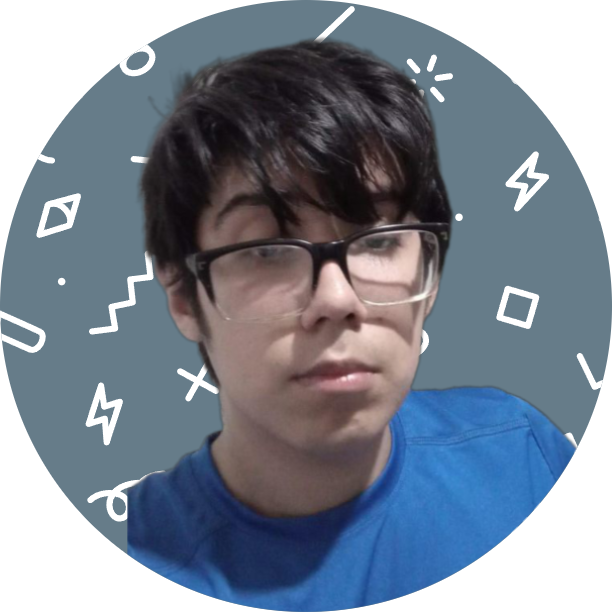
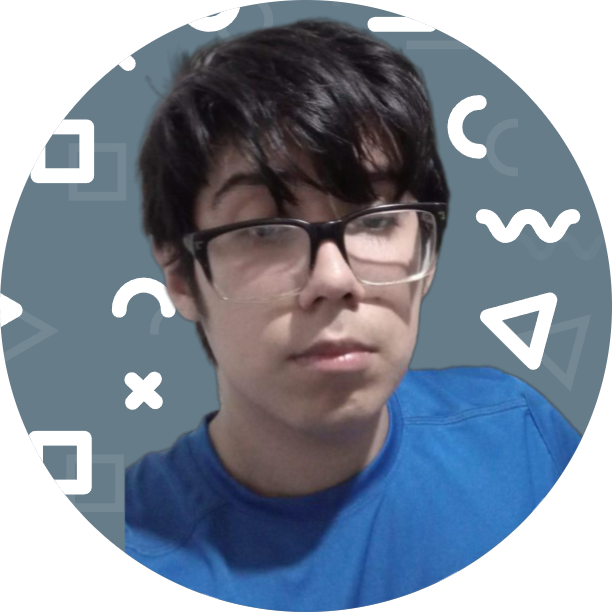
Elimine el style del h1 ya que no estaba en uso, cambie nombres de class porque interferian con otras y reemplaze 2 fotos que tenian el fondo distinto. Terminado

diff --git a/pages/nosotros.html b/pages/nosotros.html
@@ -248,8 +248,8 @@
       
     </header>
     <main class="nosotros">
-      <section class="container">
-          <article class="row" id="bannerQuienesSomos">
+      <section class="conteiner">
+          <article class="roow" id="bannerQuienesSomos">
             <hr>
               <p class="h1 text-center text-bg-dark d-flex justify-content-center ">
                 "El grupo "PixelGame" se organizó desde primer momento para realizar las tareas de forma conjunta y ordenadas
@@ -267,56 +267,37 @@
                   <img src="../img/Marcelo.png" class="quienesSomos borderojoquienessomos" alt="Marcelo Leiva" />
                   <div class="card-body">
                       <p class="h3 text-center nombreequipo text-bg-dark">Marcelo G. Leiva</p>
-                      <p class="card-text text-center text-bg-dark">
-                      Estudiante de Ingenieria en Sistemas de Informacion
-                      </p>
                   </div>
               </aside>
               <aside class="col-xl-4 col-sm-6 py-1">
                   <img src="../img/Rosario.png" class="quienesSomos borderojoquienessomos" alt="Rosario Blac Sleiman" />
                   <div class="card-body">
                       <p class="h3 text-center nombreequipo text-bg-dark">Rosario Blac Sleiman</p>
-                      <p class="card-text text-center text-bg-dark">
-                          Descripcion de ella
-                      </p>
                   </div>
               </aside>
               <aside class="col-xl-4 col-sm-6 pb-1 p">
                   <img src="../img/Ivan.png" class="card-img-top quienesSomos borderojoquienessomos" alt="Walter Duarte " />
                   <div class="card-body">
                       <p class="h3 text-center nombreequipo text-bg-dark">Walter Ivan Duarte</p>
-                      <p class="card-tex text-center text-bg-dark">
-                          Descripcion de el
-                      </p>
                   </div>
               </aside>
               <aside class="col-xl-4 col-sm-6">
-                  <img src="../img/Cristian (2).png" class="card-img-top quienesSomos borderojoquienessomos"
+                  <img src="../img/Cristian.png" class="card-img-top quienesSomos borderojoquienessomos"
                       alt="Cristian Quiroga" />
                   <div class="card-body">
                       <p class="h3 text-center nombreequipo text-bg-dark">Cristian Quiroga</p>
-                      <p class="card-text text-center text-bg-dark">
-                          Descripcion de el
-                      </p>
-                      
                   </div>
               </aside>
               <aside class="col-xl-4 col-sm-6 py-1">
                 <img src="../img/Tomas.png" class="quienesSomos borderojoquienessomos" alt="Tomas Quispe" />
                 <div class="card-body">
                     <p class="h3 text-center nombreequipo text-bg-dark">Tomas Quispe Navarro</p>
-                    <p class="card-text text-center text-bg-dark">
-                    Descripcion de el
-                    </p>
                 </div>
             </aside>
             <aside class="col-xl-4 col-sm-6 py-1">
               <img src="../img/Belen.png" class="quienesSomos borderojoquienessomos" alt="Emilia Ramos" />
               <div class="card-body">
-                  <p class="h3 text-center nombreequipo text-bg-dark">Emilia Belen Ramos</p>
-                  <p class="card-text text-center text-bg-dark">
-                  Descripcion de ella 
-                  </p>
+                  <p class="h3 text-center nombreequipo text-bg-dark">Emilia Belen Ramos</p> 
               </div>
           </aside>
           </article>

diff --git a/css/style.css b/css/style.css
@@ -30,10 +30,10 @@ footer {
   color: rgb(238, 209, 19);
 }
 
-.container {
+.conteiner {
   margin-top: 89px;
 }
-.row {
+.roow {
   color: black;
   margin-left: 10px;
 }
@@ -58,10 +58,7 @@ footer {
   padding: 7p 0px;
   object-fit: cover;
 }
-.h1{
-  color: white;
-  background: black;
-}
+
 
 
 /* Media Query para Dispositivos PEQUEÑOS */
